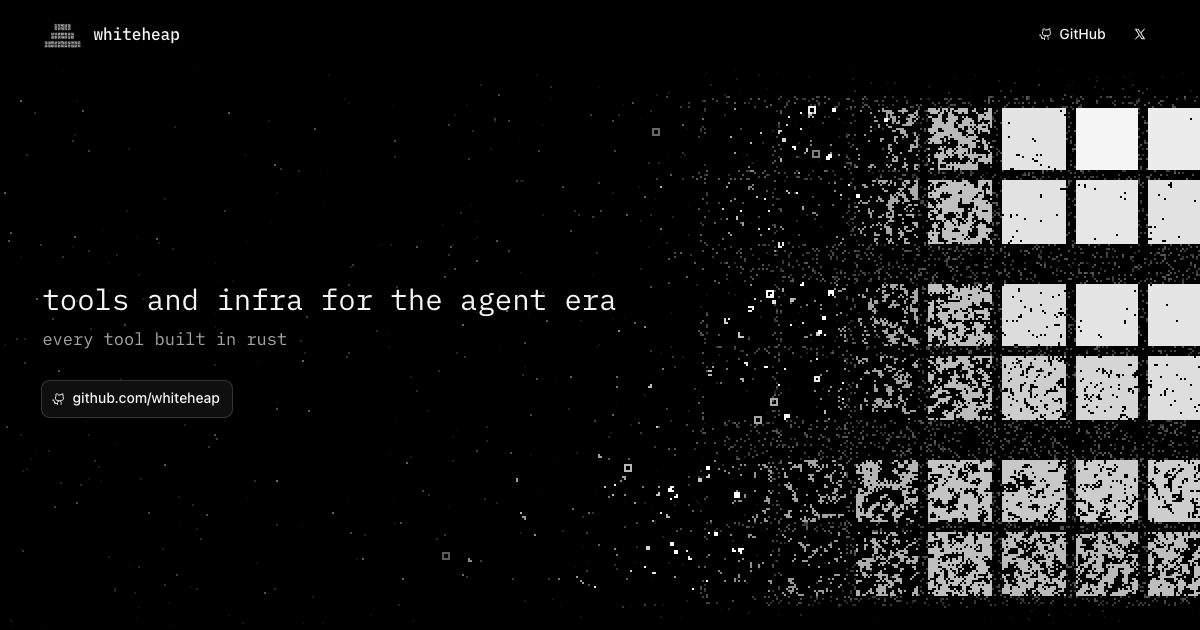
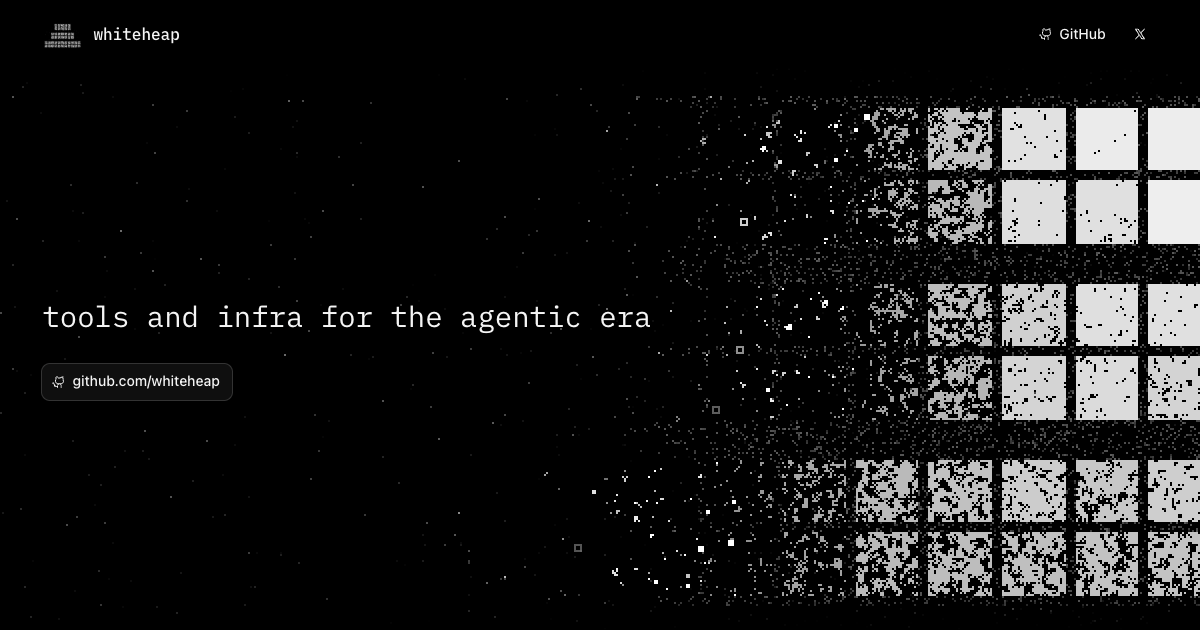
fix: hero reads "tools and infra for the agentic era", without the Rust line
The Rust message stays in the mission section, the meta description and llms.txt.

diff --git a/src/styles/global.css b/src/styles/global.css
@@ -166,20 +166,6 @@
     }
   }
 
-  .hero-heading {
-    display: grid;
-    gap: 0.5rem;
-    margin: 0;
-  }
-
-  .hero-note {
-    margin: 0;
-    font-family: var(--font-mono);
-    font-size: clamp(0.875rem, 0.8rem + 0.35vw, 1.0625rem);
-    line-height: 1.5;
-    color: var(--muted);
-  }
-
   .hero-title {
     margin: 0;
     font-family: var(--font-mono);
